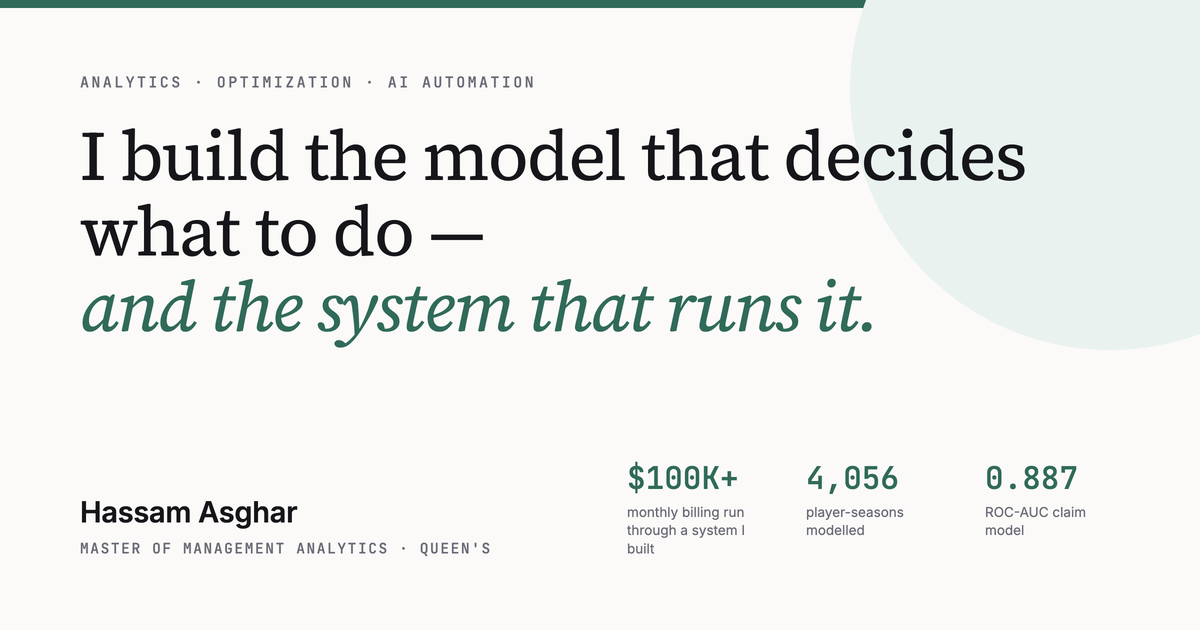
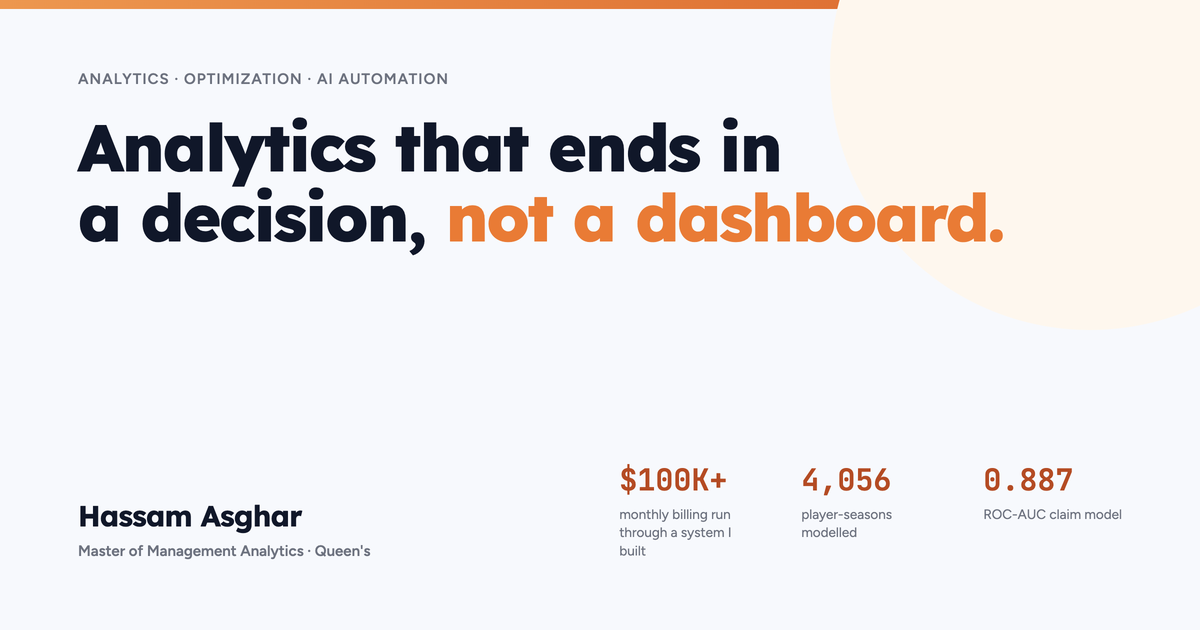
New positioning line: "Analytics that ends in a decision, not a dashboard."
Names the gap recruiters actually recognise, and the work backs it — the
hospital MILP outputs a menu, RiskIQ outputs a risk tier, Hopefield outputs
a packing plan. None of them stop at an insight.

Breaks so "not a dashboard." lands on the accent line. Subhead drops its
opening "Analytics professional with a" now that the headline owns the word.

Also regenerates the social card, which was still carrying both the old
line and the pre-redesign teal-and-serif look.

Claude-Session: https://claude.ai/code/session_01LvN8ZsxYiDMjbxJ1MKbgLA

diff --git a/src/data/site.ts b/src/data/site.ts
@@ -10,9 +10,9 @@ export const site = {
   resume: '/Hassam-Asghar-Resume.pdf',
 
   /** The positioning line. Everything else on the site supports this claim. */
-  headline: 'I build the model that decides what to do —\nand the system that runs it.',
+  headline: 'Analytics that ends in a decision,\nnot a dashboard.',
   subhead:
-    'Analytics professional with a Master of Management Analytics from Queen’s. I work at the point where optimization, machine learning and automation meet a real P&L — including my own: a home-goods brand whose inventory I plan with a linear program I wrote.',
+    'Master of Management Analytics from Queen’s. I work at the point where optimization, machine learning and automation meet a real P&L — including my own: a home-goods brand whose inventory I plan with a linear program I wrote.',
 
   status: 'Open to analytics roles in the GTA & Southwestern Ontario',
 } as const;

diff --git a/BUILD-PLAN.md b/BUILD-PLAN.md
@@ -32,7 +32,7 @@ is intentional and the work is given room to breathe.
 
 ## Positioning
 
-> I build the model that decides what to do — and the system that runs it.
+> Analytics that ends in a decision, not a dashboard.
 
 Three things almost never appear together in a junior analytics candidate:
 graduate-level rigour, a real P&L the candidate personally owns, and production
